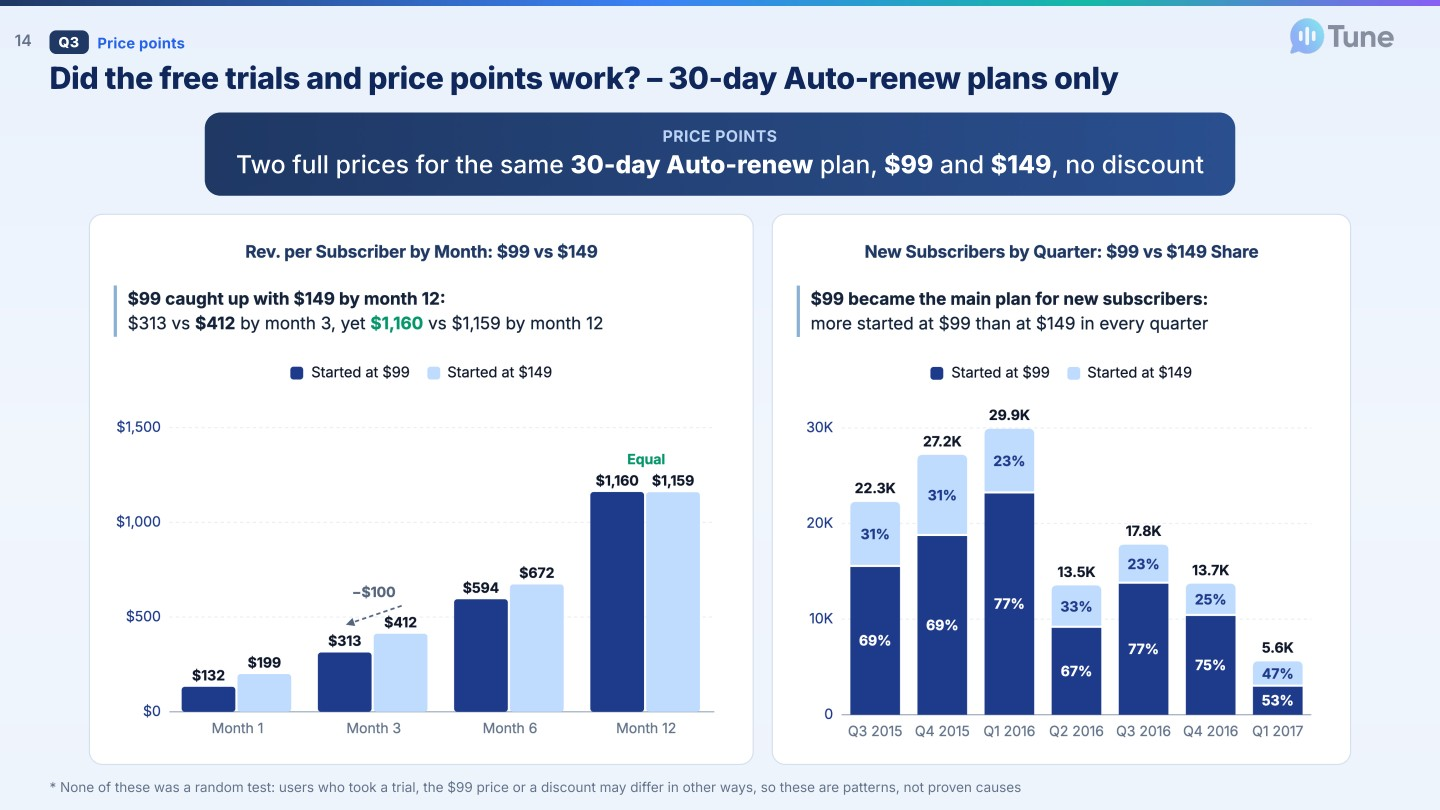
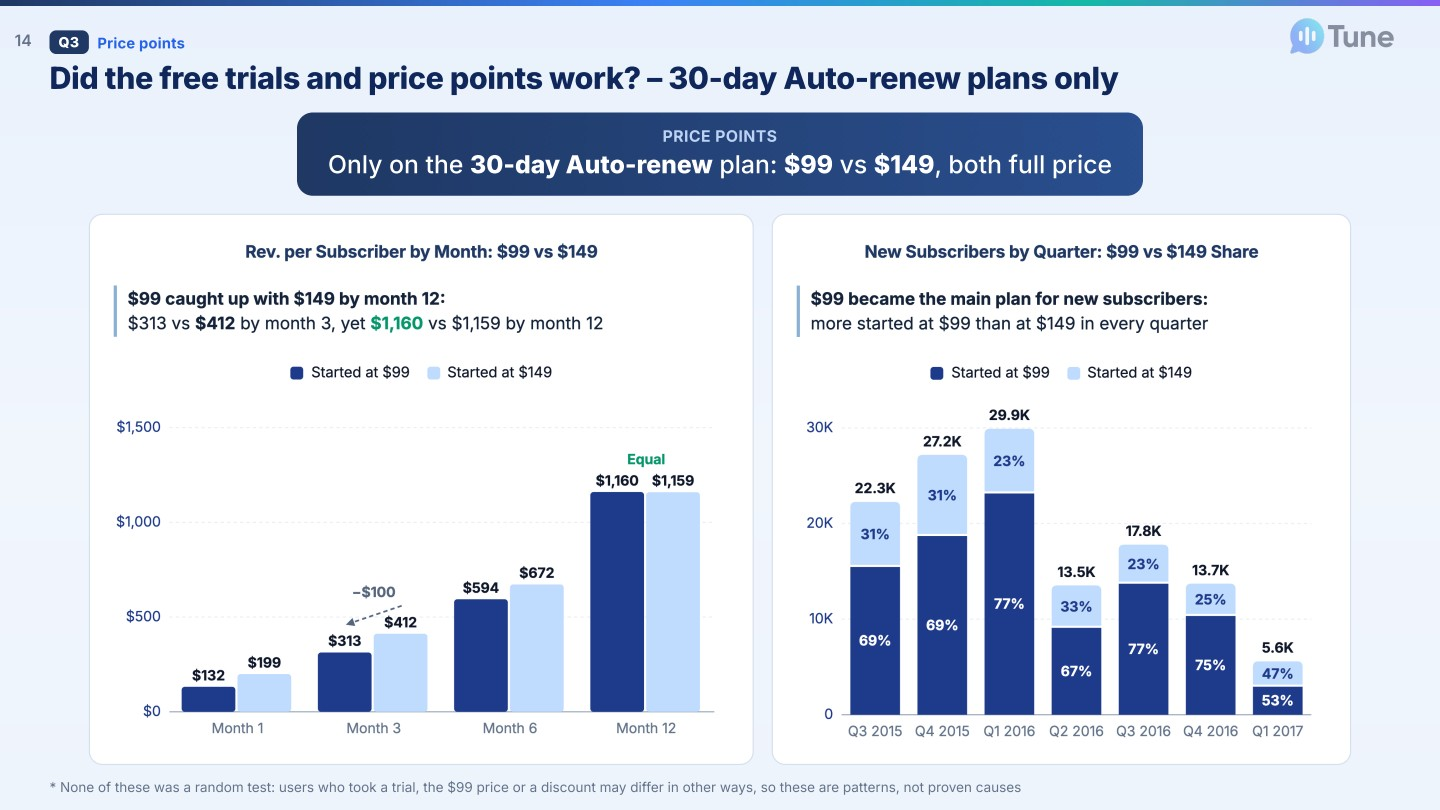
Deck: slide 14 shorter price box, only on the 30-day Auto-renew plan, $99 vs $149, both full price

Changed region(s): [[0.125, 0.1235, 0.875, 0.2469]]

diff --git a/index.html b/index.html
@@ -1026,7 +1026,7 @@ main{--v-rev:#e9d5ff;--v-rev-ink:#9333ea}
     <div class="brief-ref sub-ref"><b>Q</b><span>ARPU (and anything else you think revenue needs), plus discount depth over time</span></div>
     <div class="qa">
       <div class="qa-a">
-      <p><b>ARPU</b>, the revenue per active subscriber, fell <b class="chg-bad">−9%</b> from $129 a month in 2015 to <b class="chg-bad">$118</b> in 2016, then rose <b class="chg-good">+5%</b> to <b class="chg-good">$123</b> in Q1 2017</p><p><b>Revenue grew because more people pay:</b> in Q1 2017 vs Q1 2016, revenue grew <b class="chg-good">+24%</b> from $90.4M to <b class="chg-good">$112.3M</b>, mostly as paying subscribers grew <b class="chg-good">+19%</b> from 254K to 302K a month, while ARPPU, revenue per paying subscriber, grew only <b class="chg-good">+4%</b> from $119 to $124</p><p><b>Free trials bring many more users but not more revenue</b>, so a free trial is worth testing only for specific groups, such as age bands, cities or acquisition channels</p><p><b>Discounts did not explain the revenue growth from Q1 2016 to Q1 2017:</b> they ended in Nov 2015, and a cheaper $99 Auto-renew monthly plan took their place, reaching 42.8% of Auto-renew monthly purchases in Mar 2017</p><p><b>Subscribers with a discount brought 10% more revenue per subscriber over 12 months:</b> Auto-renew monthly subscribers who got a discount in Jan 2015 – Oct 2015 paid <b class="chg-good mf-nw">$1,700</b> each over the next 12 months, vs $1,540 at full price</p>
+      <p><b>ARPU</b>, the revenue per active subscriber, fell <b class="chg-bad">−9%</b> from $129 a month in 2015 to <b class="chg-bad">$118</b> in 2016, then rose <b class="chg-good">+5%</b> to <b class="chg-good">$123</b> in Q1 2017</p><p><b>Revenue grew because more people pay:</b> in Q1 2017 vs Q1 2016, revenue grew <b class="chg-good">+24%</b> from $90.4M to <b class="chg-good">$112.3M</b>, mostly as paying subscribers grew <b class="chg-good">+19%</b> from 254K to 302K a month, while ARPPU, revenue per paying subscriber, grew only <b class="chg-good">+4%</b> from $119 to $124</p><p><b>Free trials bring many more users but not more revenue</b>, so a free trial is worth testing only for specific groups, such as age bands, cities or acquisition channels</p><p><b>Discounts did not explain the revenue growth from Q1 2016 to Q1 2017:</b> they fell under 0.1% of paid purchases from Nov 2015, and a lower full price of $99 for the same 30-day Auto-renew plan took their place, reaching 42.8% of Auto-renew monthly purchases in Mar 2017</p><p><b>Subscribers with a discount brought 10% more revenue per subscriber over 12 months:</b> Auto-renew monthly subscribers who got a discount in Jan 2015 – Oct 2015 paid <b class="chg-good mf-nw">$1,700</b> each over the next 12 months, vs $1,540 at full price</p>
       <p class="p24-any">* Anything else revenue needs: given the time, I kept to the points I found most important; more could be added</p>
     </div>
     </div>
@@ -1078,10 +1078,10 @@ main{--v-rev:#e9d5ff;--v-rev-ink:#9333ea}
 
     <div class="brief-ref sub-ref"><b>Q</b><span>Discount depth over time</span></div>
     <div class="card v3-card">
-      <h2>Discounts and Prices: Discounts Ended, a Cheaper Plan Took Their Place</h2>
+      <h2>Discounts and Prices: Discounts Almost Stopped, a Lower $99 Price Took Their Place</h2>
       <div class="v3-c info p24-ft"><ul class="p24-bl">
         <li><b>Discounts did not explain the revenue growth from Q1 2016 to Q1 2017:</b> they fell from <b class="chg-flat">9.7%</b> of paid purchases in Jan 2015 to <b class="chg-flat">0.01%</b> in Nov 2015, with a discount depth <button type="button" class="mf" data-mf="depth"></button> of at most 1.6%</li>
-        <li><b>A cheaper plan took their place:</b> Auto-renew monthly purchases at $99, vs the usual $149, grew from 0% before Jul 2015 to <b class="chg-flat">42.8%</b> in Mar 2017; by month 12 a $99 subscriber brought the same revenue as one at $149 ($1,160 vs $1,159), as they churn far less</li>
+        <li><b>A lower full price took their place:</b> purchases of the same 30-day Auto-renew plan at $99, vs the usual $149, grew from 0% before Jul 2015 to <b class="chg-flat">42.8%</b> in Mar 2017; by month 12 a $99 subscriber brought the same revenue as one at $149 ($1,160 vs $1,159), as they churn far less</li>
         <li><b>Subscribers with a discount brought 10% more revenue per subscriber over 12 months:</b> Auto-renew monthly subscribers who got a discount in Jan 2015 – Oct 2015 paid <b class="chg-good mf-nw">$1,700</b> each over the next 12 months (normalized per subscriber), vs $1,540 for full-price subscribers on the same plan, so every 1,000 subscribers with a discount brought about <b class="chg-good mf-nw">$0.16M</b> more revenue**</li>
         <li><b>Subscribers with a discount stayed longer:</b> <b class="chg-good mf-nw">80%–87%</b> of them were still paying a year later, vs 71%–78% of full-price subscribers on the same plan</li></ul><p class="p24-est">** Estimate: ($1,700 − $1,540) × 1,000 subscribers = $0.16M over 12 months · not a random test, so subscribers who got a discount may differ in other ways</p></div>
       <div class="vz-lg"><span><i class="bar" style="--c:var(--v-mid)"></i>Paid purchases with a discount* <button type="button" class="mf" data-mf="disc"></button></span><span><i class="ln" style="--c:var(--v-navy)"></i>Revenue a month (right axis) <button type="button" class="mf" data-mf="rev"></button></span></div>
@@ -1904,7 +1904,7 @@ const P23_TYPE = [["2015-02",1.98,2249,15.1,1943,0.09,4],["2015-03",2.32,2673,17
     <div class="p3-acts">
       <div class="card p3-card">
         <h2 class="p3-ct">Target Groups: Churn vs Comparison Group</h2>
-        <p class="p3-cc warn"><b>Each move targets a group that churns <b class="chg-bad"><span data-r30="2–8×">2–7×</span></b> more than its comparison group:</b> <span data-r30="Manual users churn 19.9% per renewal vs 2.4% on Auto-renew, first renewals 16.5% vs 3.8% at 13–24 months, and payment method 40 3.9% vs 2.2% on method 41, mostly in three months of 2016 when its charges failed">Manual users churn 19.9% per renewal vs 3.0% on Auto-renew, first renewals 17.0% vs 4.2% at 13–24 months, and payment method 40 5.3% vs 2.5% on method 41, mostly in three months of 2016 when its charges failed</span></p>
+        <p class="p3-cc warn"><b>Each move targets a group that churns <b class="chg-bad"><span data-r30="2–8×">2–7×</span></b> more than its comparison group:</b> <span data-r30="All Manual users, on every plan length, churn 19.9% per renewal vs 2.4% on Auto-renew, first renewals 16.5% vs 3.8% at 13–24 months, and payment method 40 3.9% vs 2.2% on method 41, mostly in three months of 2016 when its charges failed">All Manual users, on every plan length, churn 19.9% per renewal vs 3.0% on Auto-renew, first renewals 17.0% vs 4.2% at 13–24 months, and payment method 40 5.3% vs 2.5% on method 41, mostly in three months of 2016 when its charges failed</span></p>
         <div class="p3-lg" id="p3-lg-act"></div>
         <div class="p3-plot" id="p3-ch-act"></div>
       </div>
@@ -3375,8 +3375,8 @@ order by 1;</pre>
         <div class="p4q-two"><div class="p4q-ch"><h3>Churn at the First Renewal vs Later Renewals</h3><p class="p4q-i"><b>The move assumes 12.8% instead of 17.0%:</b> one point between 17.0% today and the 4.5% at later renewals</p><div class="p4q-lg"><div class="vz-lg"><span><i style="--c:var(--v-navy)"></i>Today</span><span><i style="--c:var(--v-mid)"></i>Assumed after the move</span><span><i style="--c:var(--v-sky)"></i>For comparison</span></div></div><div class="vz" id="p4m2a"></div><div class="p4q-n"></div></div><div class="p4q-ch"><h3>Churn a Year Among the 123,000 First Renewals</h3><p class="p4q-i"><b>About 5,200 more stay a year</b></p><div class="p4q-lg"></div><div class="vz" id="p4m2b"></div><div class="p4q-n"></div></div></div>
       </div>
       <div class="p4m" id="p4m-1" style="border-top:1.5px solid color-mix(in srgb,var(--v-navy) 35%,transparent);margin-top:34px;padding-top:30px;display:grid;gap:20px;color:var(--fg)">
-        <div style="display:grid;gap:9px;font-size:14px;line-height:1.5"><b style="font-size:15px;color:var(--navy)">2 · Move Manual users to Auto-renew: about 3,200 subscribers kept a year</b><div><b>What we know:</b> Manual users churn 19.9% at each renewal, while Auto-renew users churn only 3.0%</div><div><b>What we assume:</b> A campaign, for example a free week for switching, moves 10% of Manual users to Auto-renew, and those who switch churn 10.0% per renewal instead of 19.9%</div><div><b>What we don't know:</b> How users who switch will behave. They may churn more than today's Auto-renew users, who chose it themselves, so 10.0% is not measured: it is one point in the 3.0% – 19.9% range that looks reasonable and cautious</div><div><b>The math:</b> 320,000 Manual renewals a year × 10% = 32,000 that switch. Today about 6,400 of them churn; at 10.0% about 3,200 would, so about 3,200 more stay</div></div>
-        <div class="p4q-two"><div class="p4q-ch"><h3>Churn per Renewal: Manual Users Who Switch to Auto-renew</h3><p class="p4q-i"><b>Users who switch are assumed to churn 10.0%:</b> one point between 19.9% today and the 3.0% of Auto-renew users</p><div class="p4q-lg"><div class="vz-lg"><span><i style="--c:var(--v-navy)"></i>Today</span><span><i style="--c:var(--v-mid)"></i>Assumed after the move</span><span><i style="--c:var(--v-sky)"></i>For comparison</span></div></div><div class="vz" id="p4m1a"></div><div class="p4q-n"></div></div><div class="p4q-ch"><h3>Churn a Year Among the 32,000 Renewals That Switch</h3><p class="p4q-i"><b>About 3,200 more stay a year</b></p><div class="p4q-lg"></div><div class="vz" id="p4m1b"></div><div class="p4q-n"></div></div></div>
+        <div style="display:grid;gap:9px;font-size:14px;line-height:1.5"><b style="font-size:15px;color:var(--navy)">2 · Move Manual users to Auto-renew: about 3,200 subscribers kept a year</b><div><b>What we know:</b> All Manual users, on every plan length, churn 19.9% at each renewal, while Auto-renew users churn only 3.0%</div><div><b>What we assume:</b> A campaign, for example a free week for switching, moves 10% of Manual users to Auto-renew, and those who switch churn 10.0% per renewal instead of 19.9%</div><div><b>What we don't know:</b> How users who switch will behave. They may churn more than today's Auto-renew users, who chose it themselves, so 10.0% is not measured: it is one point in the 3.0% – 19.9% range that looks reasonable and cautious</div><div><b>The math:</b> 320,000 Manual renewals a year × 10% = 32,000 that switch. Today about 6,400 of them churn; at 10.0% about 3,200 would, so about 3,200 more stay</div></div>
+        <div class="p4q-two"><div class="p4q-ch"><h3>Churn per Renewal: Manual Users Who Switch to Auto-renew</h3><p class="p4q-i"><b>Users who switch are assumed to churn 10.0%:</b> one point between the 19.9% of all Manual users today and the 3.0% of Auto-renew users</p><div class="p4q-lg"><div class="vz-lg"><span><i style="--c:var(--v-navy)"></i>Today</span><span><i style="--c:var(--v-mid)"></i>Assumed after the move</span><span><i style="--c:var(--v-sky)"></i>For comparison</span></div></div><div class="vz" id="p4m1a"></div><div class="p4q-n"></div></div><div class="p4q-ch"><h3>Churn a Year Among the 32,000 Renewals That Switch</h3><p class="p4q-i"><b>About 3,200 more stay a year</b></p><div class="p4q-lg"></div><div class="vz" id="p4m1b"></div><div class="p4q-n"></div></div></div>
       </div>
       <div class="p4m" id="p4m-3" style="border-top:1.5px solid color-mix(in srgb,var(--v-navy) 35%,transparent);margin-top:34px;padding-top:30px;display:grid;gap:20px;color:var(--fg)">
         <div style="display:grid;gap:9px;font-size:14px;line-height:1.5"><b style="font-size:15px;color:var(--navy)">3 · Catch failed payments: about 1,600 subscribers kept a year</b><div><b>What we know:</b> Since Nov 2016, users who pay with payment method 40 (one of the payment providers) churn 3.4% at each renewal and users on method 41 churn 2.7%. In 2016, when method 40's charges failed, the gap was far larger</div><div><b>What we assume:</b> Catching failed charges every day (an alert per provider, a retry, a request for a new card) brings method 40 down to method 41's 2.7%</div><div><b>What we don't know:</b> Whether today's small gap comes from failed payments at all; some of it may be users who cancel on purpose. That is why only today's gap is counted, not the 2016 one</div><div><b>The math:</b> 227,000 method 40 renewals a year (Nov 2016 – Mar 2017, scaled to 12 months). Today about 7,700 of them churn; at 2.7% about 6,100 would, so about 1,600 more stay</div></div>
@@ -3732,7 +3732,7 @@ const ISSUES = { raw_users: "U1-U11: age 0 or out of range, gender missing, regi
   raw_churn_labels: "L4-L7: labels don't match a naive 'due in March' population" };
 
 // ---------------- tabs ----------------
-const DECKV = "1118q3y";  // change on every deck update so browsers load the new slide images, not a cached copy
+const DECKV = "1118q3z";  // change on every deck update so browsers load the new slide images, not a cached copy
 const GROUPS = {
   intro: [["overview", "Overview"]],
   p1: [["dq", "1a · Data quality"], ["lineage", "1b.1 · Clean layer & data model"], ["explorer", "1b.2 · Explorer & SQL"], ["churn", "1c · Churn check"]],
